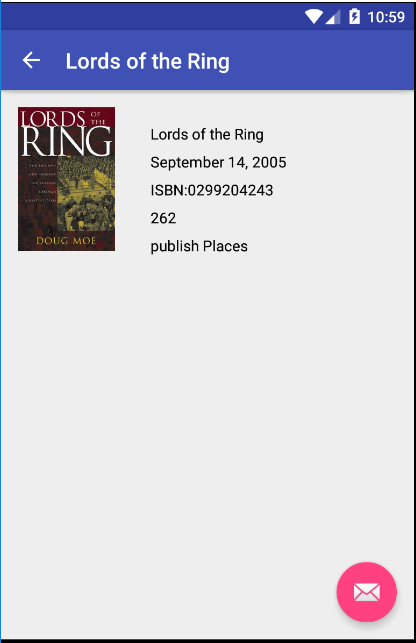
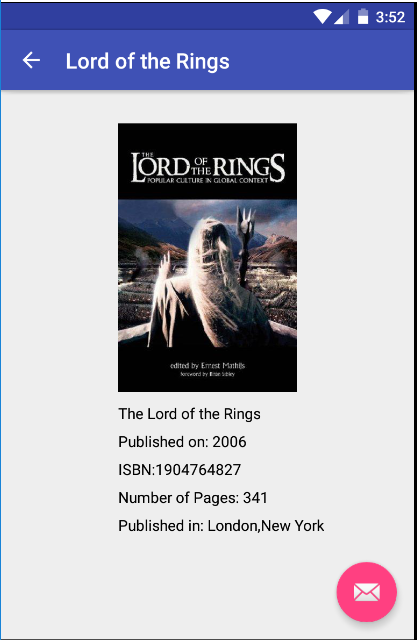
Changed Layout for the DisplayBookActivity, and larger cover images

diff --git a/app/src/main/java/com/searchbook/DisplayBookActivity.java b/app/src/main/java/com/searchbook/DisplayBookActivity.java
@@ -7,7 +7,6 @@ import android.support.design.widget.FloatingActionButton;
 import android.support.design.widget.Snackbar;
 import android.support.v7.app.AppCompatActivity;
 import android.support.v7.widget.Toolbar;
-import android.util.Log;
 import android.view.View;
 import android.widget.ImageView;
 import android.widget.TextView;
@@ -15,10 +14,12 @@ import android.widget.TextView;
 import com.loopj.android.http.JsonHttpResponseHandler;
 import com.squareup.picasso.Picasso;
 
+import org.json.JSONArray;
 import org.json.JSONException;
 import org.json.JSONObject;
 
 import cz.msebera.android.httpclient.Header;
+import cz.msebera.android.httpclient.util.TextUtils;
 import netclient.BookClient;
 
 public class DisplayBookActivity extends AppCompatActivity {
@@ -31,7 +32,7 @@ public class DisplayBookActivity extends AppCompatActivity {
     private String numOfPages="";
     private TextView pages;
     private TextView publishDateView;
-    private String publishDateStr ="";
+    private TextView publishedPlacesView;
     private TextView ISBNView;
 
     private Book book=new Book();
@@ -46,6 +47,7 @@ public class DisplayBookActivity extends AppCompatActivity {
 
         Bundle bundle=getIntent().getExtras();
         title=bundle.getString("Title");
+
         setTitle(title);
         coverUrl=bundle.getString("Cover URL");
         ISBN=bundle.getString("ISBN");
@@ -57,10 +59,11 @@ public class DisplayBookActivity extends AppCompatActivity {
         bookTitle=(TextView)findViewById(R.id.book_details_title);
         pages=(TextView)findViewById(R.id.book_details_pages);
         ISBNView=(TextView)findViewById(R.id.book_details_isbn);
+
         ISBNView.setText("ISBN:"+ISBN);
         //bookTitle.setText(title);
         publishDateView=(TextView)findViewById(R.id.book_details_publish_date);
-
+        publishedPlacesView =(TextView)findViewById(R.id.book_details_publish_place);
         //fetch Book details from Open Library API
         fetchBookDetails(ISBN);
         Picasso.with(context).load(Uri.parse(coverUrl)).placeholder(R.drawable.ic_nocover).into(bookCoverImg);
@@ -94,16 +97,28 @@ public class DisplayBookActivity extends AppCompatActivity {
                         //publishDateStr = ;
                         //Log.i(TAG,"Form: "+ publishDateStr);
 
-                        publishDateView.setText(details.getString("publish_date"));
+                        publishDateView.setText("Published on: "+details.getString("publish_date"));
+
                         if(!details.has("number_of_pages")){
                             pages.setText("Number of Pages: N/A");
                         }else{
-                            pages.setText(details.getString("number_of_pages"));}
+                            pages.setText("Number of Pages: "+details.getString("number_of_pages"));}
                         if(!details.has("title")){
                             bookTitle.setText(title);
                         }
                         else{
                             bookTitle.setText(details.getString("title"));
+                        }
+                        if(!details.has("publish_places")){
+                            publishedPlacesView.setText("Published in: N/A");
+                        }else{
+                            JSONArray published_places=details.getJSONArray("publish_places");
+                            final String[] publishedPlacesArray=new String[published_places.length()];
+                            for(int i=0;i<published_places.length();i++){
+                                publishedPlacesArray[i]=published_places.getString(i);
+                            }
+                            String pub= android.text.TextUtils.join(",",publishedPlacesArray);
+                            publishedPlacesView.setText("Published in: "+ pub);
                         }
                     }
                 }catch(JSONException jsonex){

diff --git a/app/src/main/java/com/searchbook/BookListActivity.java b/app/src/main/java/com/searchbook/BookListActivity.java
@@ -83,7 +83,7 @@ public class BookListActivity extends AppCompatActivity {
                 Book book=(Book)bookListView.getItemAtPosition(position);
                 bundle.putString("ISBN",book.getISBN());
                 bundle.putString("Title",book.getTitle());
-                bundle.putString("Cover URL",book.getCoverURL());
+                bundle.putString("Cover URL",book.getLargeCoverURL());
 
                 Toast.makeText(BookListActivity.this,book.getTitle(),Toast.LENGTH_LONG).show();
 
@@ -136,11 +136,7 @@ public class BookListActivity extends AppCompatActivity {
                         bookAdapter.clear();
                         //Load model objects into the adapter
                         bookAdapter.addAll(bookList);
-
-//                        for(Book book :bookList){
-//                            bookAdapter.add(book);//add book through the adapter
-//                        }
-//                        bookListView.setAdapter(bookAdapter);
+//                      bookListView.setAdapter(bookAdapter);
                         bookAdapter.notifyDataSetChanged();
                         swipeContainer.setRefreshing(false);
                     }
@@ -160,18 +156,24 @@ public class BookListActivity extends AppCompatActivity {
     public boolean onCreateOptionsMenu(Menu menu){
         MenuInflater menuInflater = getMenuInflater();
         menuInflater.inflate(R.menu.menu_search,menu);
-        MenuItem searchItem=menu.findItem(R.id.menuSearch);
-        SearchView searchView=(SearchView) MenuItemCompat.getActionView(searchItem);
+        final MenuItem searchItem=menu.findItem(R.id.menuSearch);
+        final SearchView searchView=(SearchView) MenuItemCompat.getActionView(searchItem);
 
         searchView.setSubmitButtonEnabled(true);
         searchView.setOnQueryTextListener(new SearchView.OnQueryTextListener(){
             @Override
             public boolean onQueryTextSubmit(String query) {
-                setTitle("Books by "+query);
-                BookListActivity.this.queryString=query;
-                Log.i(TAG,"Query String: "+query);
+                //Log.i(TAG,"Query String: "+query);
                 fetchBooks(query);
-                return false;
+                //Reset SearchView
+                searchView.clearFocus();
+                searchView.setQuery("",false);
+                searchView.setIconified(true);
+                searchItem.collapseActionView();
+
+                setTitle(query);
+                BookListActivity.this.queryString=query;
+                return true;
             }
             @Override
             public boolean onQueryTextChange(String newText) {

diff --git a/app/src/main/java/com/searchbook/Book.java b/app/src/main/java/com/searchbook/Book.java
@@ -30,25 +30,25 @@ public class Book {
     }
 
     public String getISBN() {
-
         return ISBN;
     }
 
     public String getTitle(){
-
         return title;
     }
     public String getAuthor(){
-
         return author;
     }
-
-
 
     //Get book cover from covers API
     public String getCoverURL(){
         return "http://covers.openlibrary.org/b/olid/"+ openLibraryId+ "-M.jpg?default=false";
     }
+
+    public String getLargeCoverURL(){
+        return "http://covers.openlibrary.org/b/olid/"+ openLibraryId+ "-L.jpg?default=false";
+    }
+
     public static Book buildBookFromJson(JSONObject jsonObject){
         Book book=new Book();
         try{
